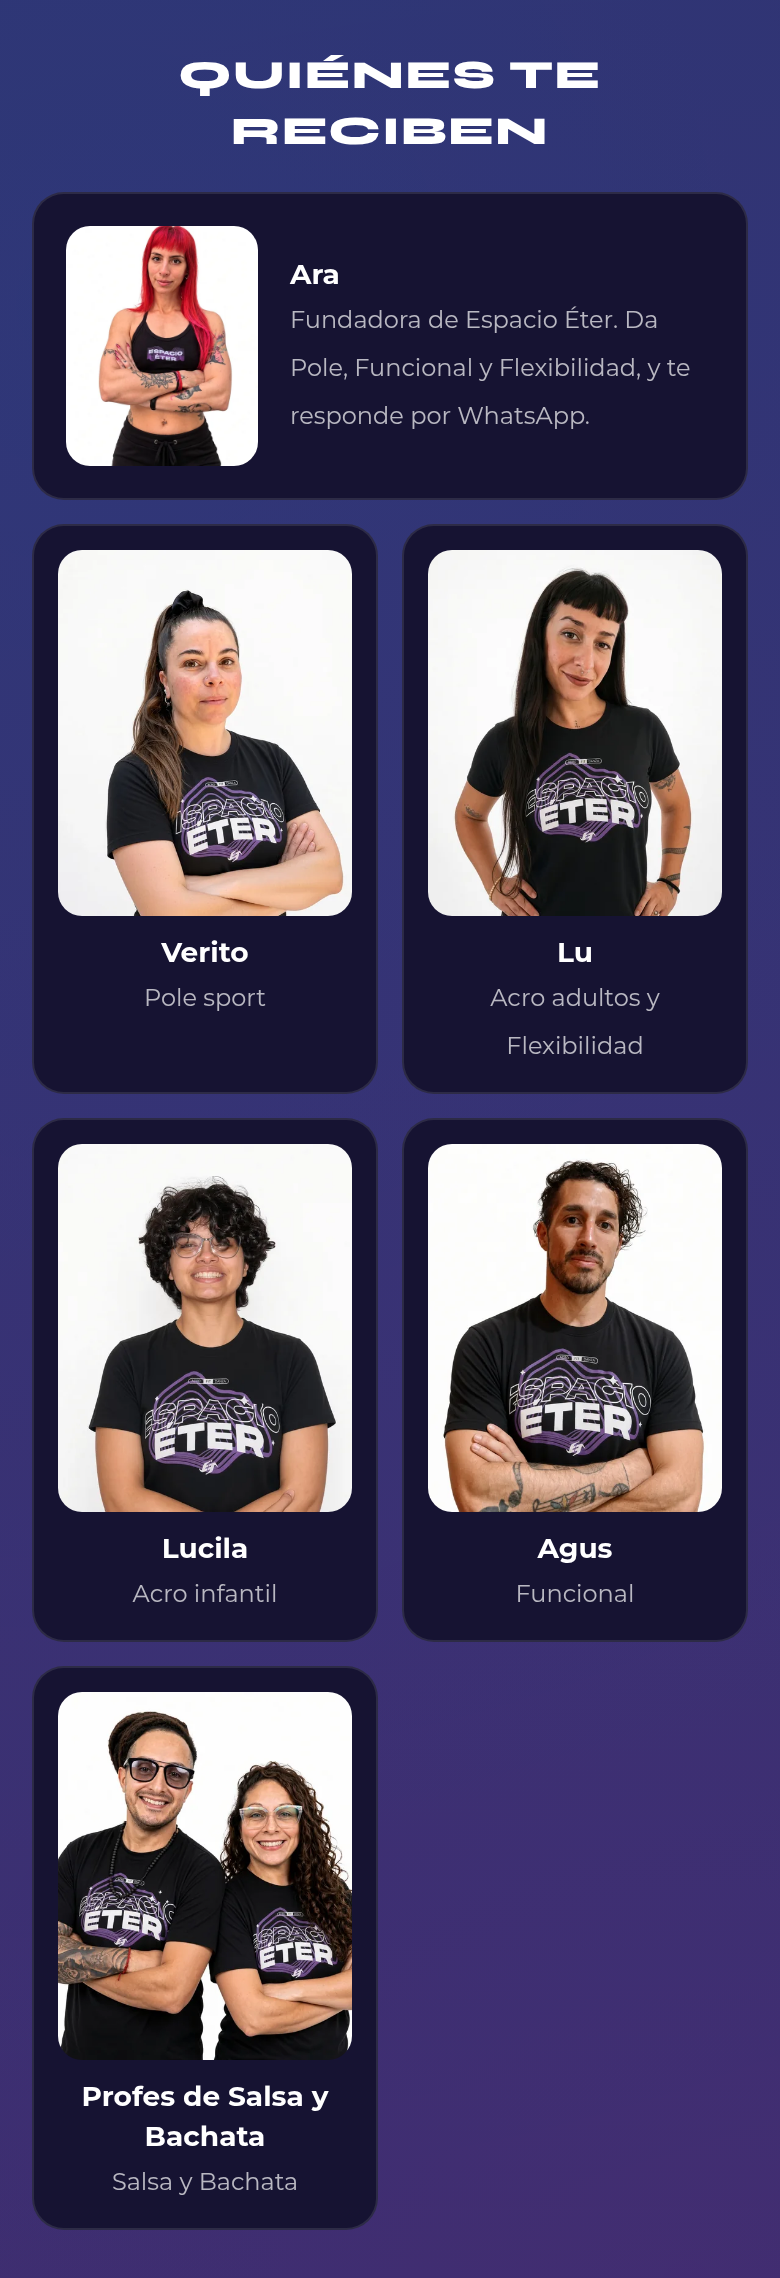
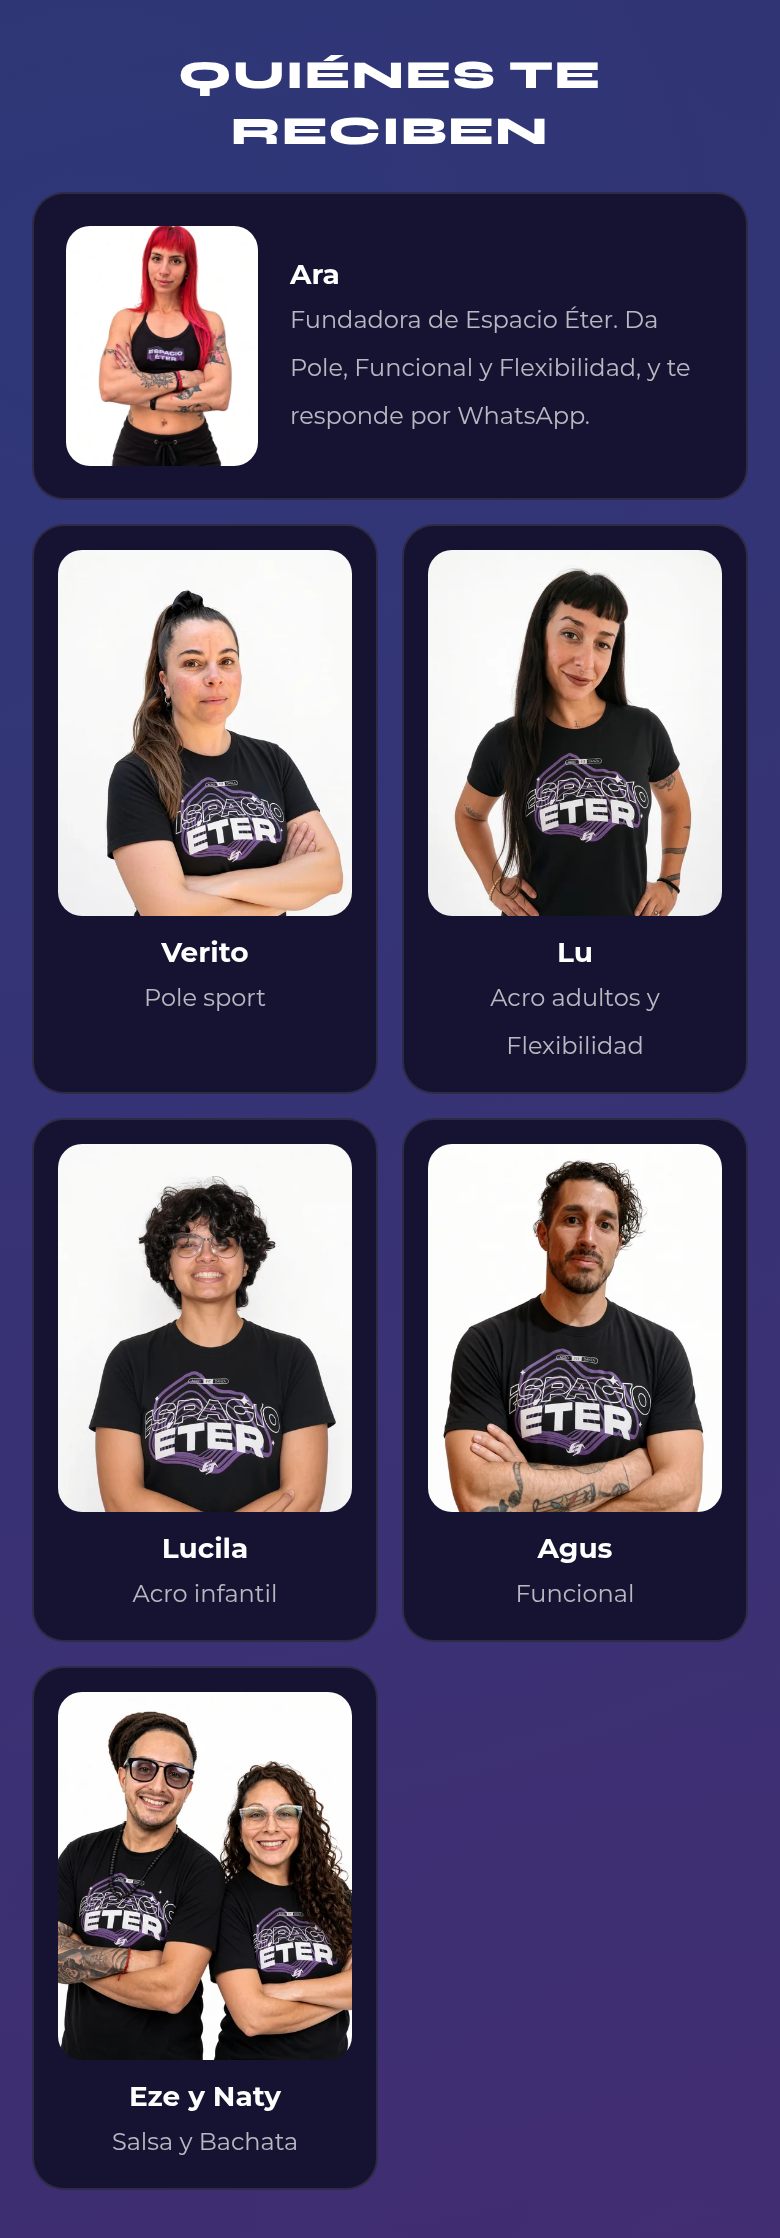
Profes de Salsa y Bachata: Eze y Naty

diff --git a/index.html b/index.html
@@ -275,8 +275,8 @@
         <figcaption><strong class="text-white text-sm block">Agus</strong><span class="text-white/70 text-xs">Funcional</span></figcaption>
       </figure>
       <figure class="profe-card bg-[#161332] border border-white/10 rounded-2xl p-3 text-center">
-        <img src="img/profes/salsa-bachata-480.webp" srcset="img/profes/salsa-bachata-480.webp 480w, img/profes/salsa-bachata-960.webp 960w" sizes="(min-width:640px) 280px, 45vw" width="480" height="600" loading="lazy" decoding="async" alt="Profes de Salsa y Bachata de Espacio Éter" class="w-full aspect-[4/5] object-cover rounded-xl mb-2" />
-        <figcaption><strong class="text-white text-sm block">Profes de Salsa y Bachata</strong><span class="text-white/70 text-xs">Salsa y Bachata</span></figcaption>
+        <img src="img/profes/salsa-bachata-480.webp" srcset="img/profes/salsa-bachata-480.webp 480w, img/profes/salsa-bachata-960.webp 960w" sizes="(min-width:640px) 280px, 45vw" width="480" height="600" loading="lazy" decoding="async" alt="Eze y Naty, profes de Salsa y Bachata" class="w-full aspect-[4/5] object-cover rounded-xl mb-2" />
+        <figcaption><strong class="text-white text-sm block">Eze y Naty</strong><span class="text-white/70 text-xs">Salsa y Bachata</span></figcaption>
       </figure>
     </div>
   </section>
